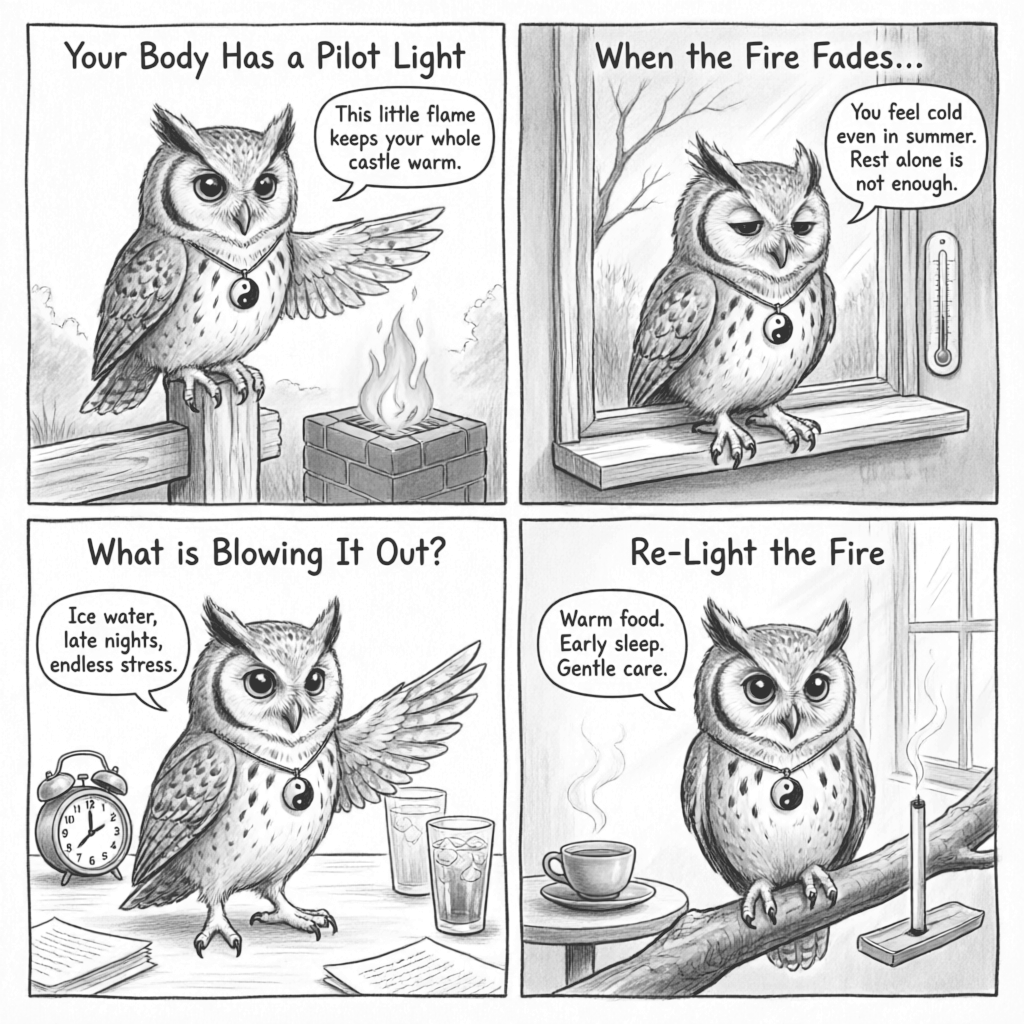
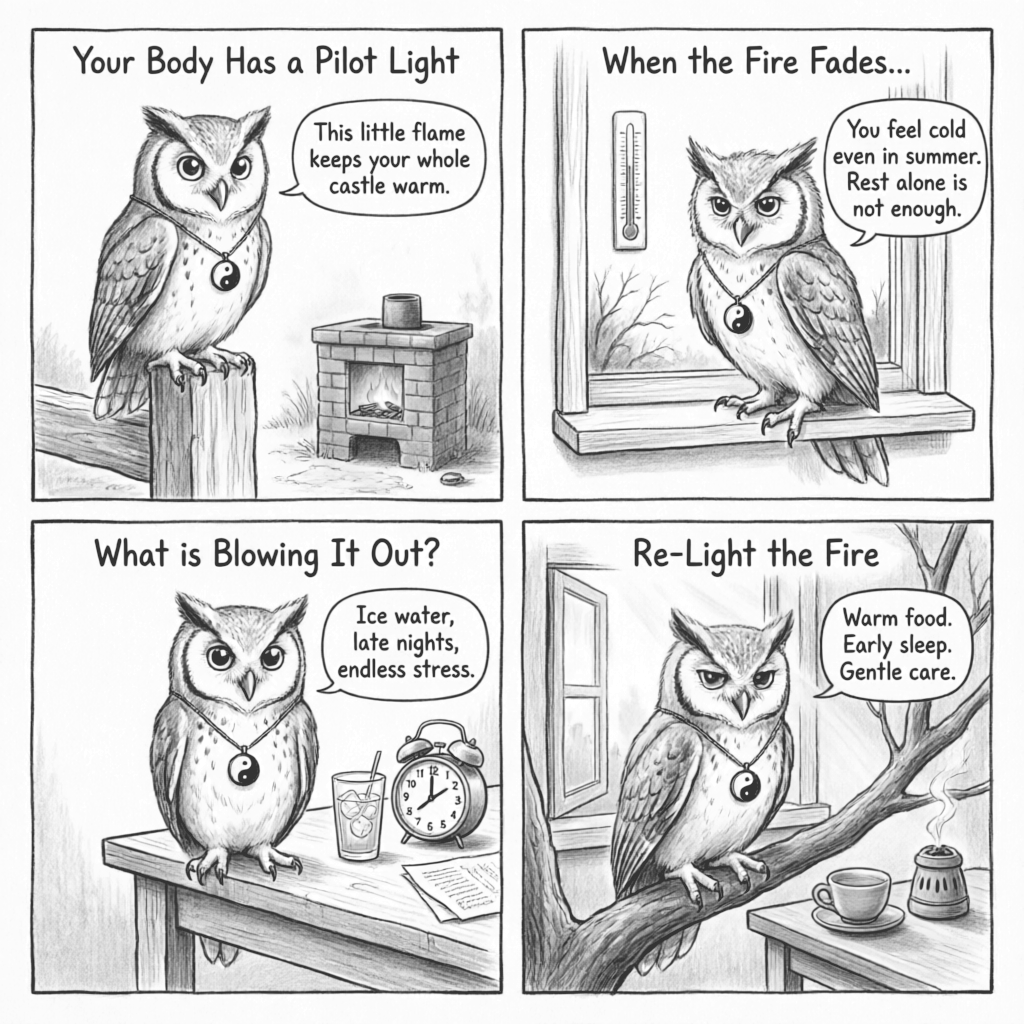
fix: #29 comic v6 (no hands P3 + correct placement after intro)

diff --git a/posts/29-the-fire-inside-you-is-going-out.html b/posts/29-the-fire-inside-you-is-going-out.html
@@ -84,9 +84,11 @@
   <div class="meta">June 25, 2026 &middot; By Ollie</div>
   <div class="last-updated" style="color:var(--subtle);font-size:0.85rem;margin-top:0.3rem;">Last updated: June 25, 2026</div>
 
+<p><img src="/images/ollie-mini-80.png" alt="Ollie" style="width:28px;height:28px;vertical-align:middle;margin-right:6px;border-radius:50%;">Is this you? You're wearing a sweater in July. Your feet feel like blocks of ice, even under a pile of blankets.</p>
+<p>Your partner calls you the "human ice pack" when you get into bed. Every day by 3 PM, you hit a wall of exhaustion so profound that even the strongest coffee can't touch it. Maybe you also have a nagging, dull ache in your lower back that never quite goes away. You've been to the doctor, run the tests, and heard the frustrating words: "Everything looks normal." But you know, deep down, that something is *not* normal. You feel like a phone that's perpetually stuck at 15% battery, no matter how long you charge it. In Chinese medicine, we have a name for this. It's not just in your head; it's a sign that your body's essential fire is starting to flicker out. </p>
+
 <img class="comic-break" src="/images/comic-29-bw.png" alt="Ollie the screech owl explains Ming Men Life Gate Fire in a 4-panel black and white hand-drawn comic" width="680" style="max-width:100%;" loading="lazy">
-<p><img src="/images/ollie-mini-80.png" alt="Ollie" style="width:28px;height:28px;vertical-align:middle;margin-right:6px;border-radius:50%;">Is this you? You’re wearing a sweater in July. Your feet feel like blocks of ice, even under a pile of blankets.</p>
-<p>Your partner calls you the "human ice pack" when you get into bed. Every day by 3 PM, you hit a wall of exhaustion so profound that even the strongest coffee can’t touch it. Maybe you also have a nagging, dull ache in your lower back that never quite goes away. You’ve been to the doctor, run the tests, and heard the frustrating words: "Everything looks normal." But you know, deep down, that something is *not* normal. You feel like a phone that’s perpetually stuck at 15% battery, no matter how long you charge it. In Chinese medicine, we have a name for this. It’s not just in your head; it’s a sign that your body’s essential fire is starting to flicker out. </p>
+
 <h3>Your Body Has a Pilot Light</h3>
 <p>Imagine your body is a grand, old castle. To keep it warm and running, there's a massive furnace in the basement. This furnace is your Kidneys, the powerhouse of your body's foundational energy. But for that furnace to work, it needs a small, steady flame—a pilot light.</p>
 <p>In Chinese medicine, this pilot light has a beautiful name: *Ming Men* (命门), which translates to the "Life Gate Fire." It's a concept formalized by the brilliant Ming Dynasty physician Zhang Jingyue. He taught that this tiny, crucial flame is the source of all the Yang energy—the warmth, activity, and metabolic power—in your entire body.</p>
